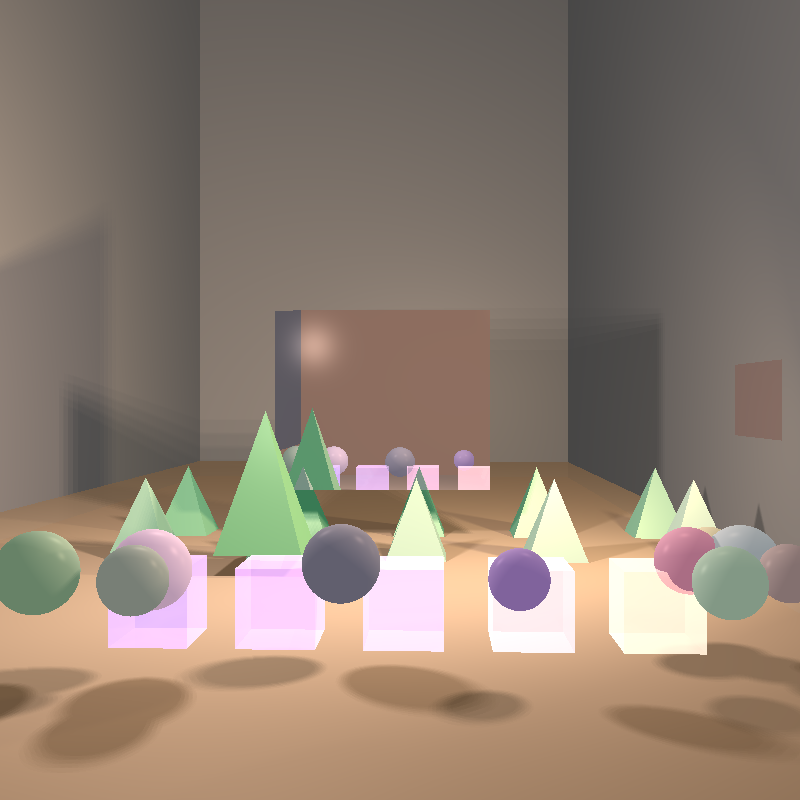
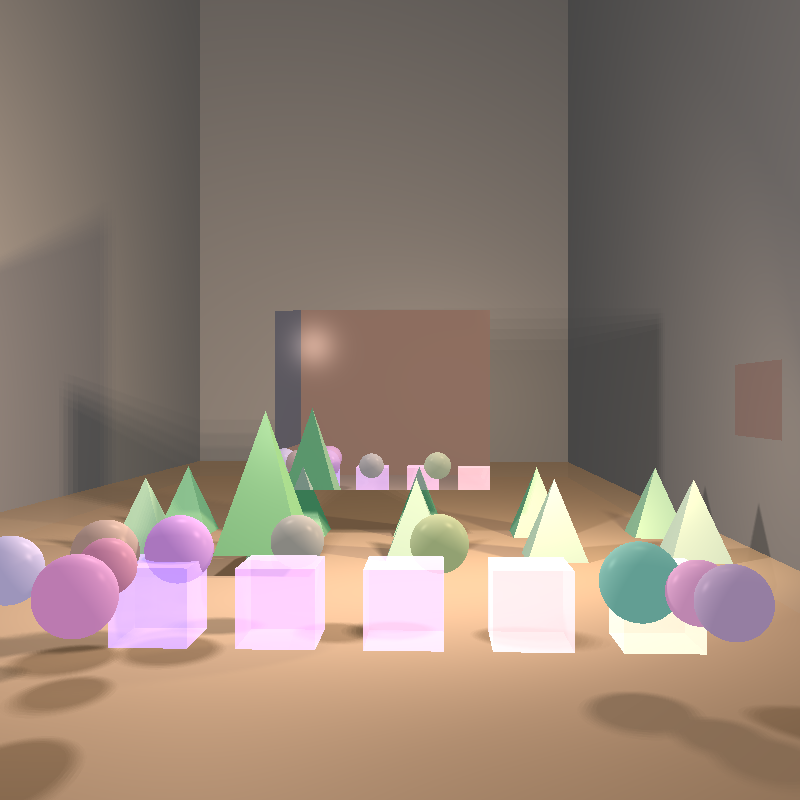
multi threading

diff --git a/unittests/renderer/Minip1.java b/unittests/renderer/Minip1.java
@@ -520,6 +520,107 @@ class Minip1 {
                 .renderImage()
                 .writeToImage("multiply_amount_of_geometries_with_soft_shadows_with_window");
     }
+
+    @Test
+    void createSceneWithMultipleGeometriesSoftShadows_MultiThreaded() {
+        Scene scene = new Scene("Scene with many geometries and soft shadows");
+
+        scene.setBackground(new Color(120, 80, 50));
+        scene.geometries.add(createRealisticFloor(-60, 400));
+        scene.geometries.add(createLargeMirror());
+        scene.geometries.add(createEnhancedPyramid());
+        scene.geometries.add(createGlassInWindow());
+        scene.geometries.add(createTwoWallsWithWindows());
+
+        // Light sources
+        scene.lights.add(new SpotLight(
+                new Color(1400, 1100, 1000),
+                new Point(200, 20, -45),
+                new Vector(0.9995, 0, 0))
+                .setRadius(12)
+                .setKc(1).setKl(0.0001).setKq(0.000001));
+
+        scene.lights.add(new SpotLight(
+                new Color(140, 110, 90),
+                new Point(80, 100, 120),
+                new Vector(-1, -1.2, -1))
+                .setRadius(12)
+                .setKc(1).setKl(0.0001).setKq(0.000001));
+
+        scene.lights.add(new PointLight(
+                new Color(80, 70, 65),
+                new Point(-80, 60, 100))
+                .setRadius(8)
+                .setKc(1).setKl(0.0002).setKq(0.000002));
+
+        scene.lights.add(new SpotLight(
+                new Color(100, 80, 50),
+                new Point(150, 30, 50),
+                new Vector(-1, -0.5, -1))
+                .setRadius(6)
+                .setKc(1).setKl(0.0003).setKq(0.000003));
+
+        // Duplicate main spotlight (intentional)
+        scene.lights.add(new SpotLight(
+                new Color(1400, 1100, 1000),
+                new Point(200, 20, -45),
+                new Vector(0.9995, 0, 0))
+                .setRadius(12)
+                .setKc(1).setKl(0.0001).setKq(0.000001));
+
+        scene.setAmbientLight(new AmbientLight(new Color(17, 17, 17)));
+
+        // Pyramids
+        for (int i = 0; i < 10; i++) {
+            double x = -140 + (i % 5) * 70;
+            double z = -100 + (i / 5) * 80;
+            Point center = new Point(x, -60, z);
+            scene.geometries.add(createRandomPyramid(center, 30, 40,
+                    new Color(30 + i * 10, 100 + (i * 5) % 100, 60 + (i * 7) % 150)));
+        }
+
+        // Spheres
+        Random rand = new Random();
+        for (int i = 0; i < 10; i++) {
+            double x = -120 + rand.nextDouble() * 240;
+            double z = 120 + rand.nextDouble() * 100;
+            double y = -30;
+            Point center = new Point(x, y, z);
+            double radius = 8 + rand.nextDouble() * 4;
+            Color color = new Color(
+                    80 + rand.nextInt(100),
+                    50 + rand.nextInt(100),
+                    80 + rand.nextInt(100));
+            scene.geometries.add(createSphere(center, radius, color));
+        }
+
+        // Transparent cubes
+        for (int i = 0; i < 5; i++) {
+            double x = -80 + i * 40;
+            double y = -45;
+            double z = 150;
+            Point center = new Point(x, y, z);
+            Color color = new Color(100 + i * 20, 80 + i * 10, 150 - i * 10);
+            scene.geometries.add(createTranslucentCube(center, 25, color));
+        }
+
+        // Optional: Build BVH for performance
+        // scene.geometries.buildBVH();
+
+        cameraBuilder
+                .setResolution(800, 800)
+                .setRayTracer(scene, RayTracerType.SIMPLE)
+                .setLocation(new Point(10, 20, 440))
+                .setDirection(new Point(-10, 20, -60), new Vector(0, 1, 0))
+                .setVpDistance(180)
+                .setVpSize(160, 160)
+                .setMultithreading(-2) // לדוגמה: -2 = מספר תהליכונים אוטומטי
+                .setDebugPrint(1.0)  // הדפסת התקדמות כל 1%
+                .build()
+                .renderImage()
+                .writeToImage("multiply_amount_of_geometries_with_soft_shadows_with_window_multythreaded");
+    }
+
     @Test
     void createSceneWithMultipleGeometries() {
         // Set background color to a warm brown tone resembling sunset

diff --git a/src/renderer/Camera.java b/src/renderer/Camera.java
@@ -5,7 +5,9 @@ import primitives.Ray;
 import primitives.Vector;
 import scene.Scene;
 
+import java.util.LinkedList;
 import java.util.List;
+import java.util.stream.IntStream;
 
 import static primitives.Util.alignZero;
 import static primitives.Util.isZero;
@@ -32,6 +34,10 @@ public class Camera implements Cloneable {
     private renderer.RayTracerBase rayTracer;
     private int nX = 1;
     private int nY = 1;
+    private int threadsCount = 0; // -2 auto, -1 range/stream, 0 no threads, 1+ number of threads
+    private static final int SPARE_THREADS = 2; // Spare threads if trying to use all the cores
+    private double printInterval = 0; // printing progress percentage interval (0 – no printing)
+    private PixelManager pixelManager; // pixel manager object
 
     /**
      * Returns a new Builder instance for constructing a Camera object.
@@ -139,7 +145,7 @@ public class Camera implements Cloneable {
      *
      * @return the Camera instance
      */
-    public Camera renderImage() {
+    public Camera renderImageNoThreads() {
         for (int i = 0; i < nY; i++) {
             for (int j = 0; j < nX; j++) {
                 castRay(j, i);
@@ -147,7 +153,16 @@ public class Camera implements Cloneable {
         }
         return this;
     }
-
+    /** ...
+     */
+    public Camera renderImage() {
+        pixelManager = new PixelManager(nY, nX, printInterval);
+        return switch (threadsCount) {
+            case 0 -> renderImageNoThreads();
+            case -1 -> renderImageStream();
+            default -> renderImageRawThreads();
+        };
+    }
     /**
      * Prints a grid on the image with a specified interval and color.
      *
@@ -187,8 +202,34 @@ public class Camera implements Cloneable {
         Ray ray = constructRay(nX, nY, j, i);
         primitives.Color color = rayTracer.traceRay(ray);
         imageWriter.writePixel(j, i, color);
+        pixelManager.pixelDone();
     }
-
+    /**
+     * Render image using multi-threading by creating and running raw threads* @return the camera object itself
+     */
+    private Camera renderImageRawThreads() {
+        var threads = new LinkedList<Thread>();
+        while (threadsCount-- > 0)
+            threads.add(new Thread(() -> {
+                PixelManager.Pixel pixel;
+                while ((pixel = pixelManager.nextPixel()) != null)
+                    castRay(pixel.col(), pixel.row());
+            }));
+        for (var thread : threads) thread.start();
+        try {
+            for (var thread : threads) thread.join();
+        } catch (InterruptedException ignore) {}
+        return this;
+    }
+    /**
+     * Render image using multi-threading by creating and running raw threads* @return the camera object itself
+     */
+    public Camera renderImageStream() {
+        IntStream.range(0, nY).parallel() //
+                .forEach(i -> IntStream.range(0, nX).parallel() //
+                        .forEach(j -> castRay(j, i)));
+        return this;
+    }
     /**
      * Builder class for constructing a Camera object.
      */
@@ -330,6 +371,21 @@ public class Camera implements Cloneable {
                 default:
                     camera.rayTracer = null;
             }
+            return this;
+        }
+
+        public Builder setMultithreading(int threads) {
+            if (threads < -2) throw new IllegalArgumentException("Multithreading must be -2 or higher");
+            if (threads >= -1) camera.threadsCount = threads;
+            else { // == -2
+                int cores = Runtime.getRuntime().availableProcessors() - SPARE_THREADS;
+                camera.threadsCount = cores <= 2 ? 1 : cores;
+            }
+            return this;
+        }
+        public Builder setDebugPrint(double interval) {
+            if (interval < 0) throw new IllegalArgumentException("Interval value must be non-negative");
+            camera.printInterval = interval;
             return this;
         }
     }
